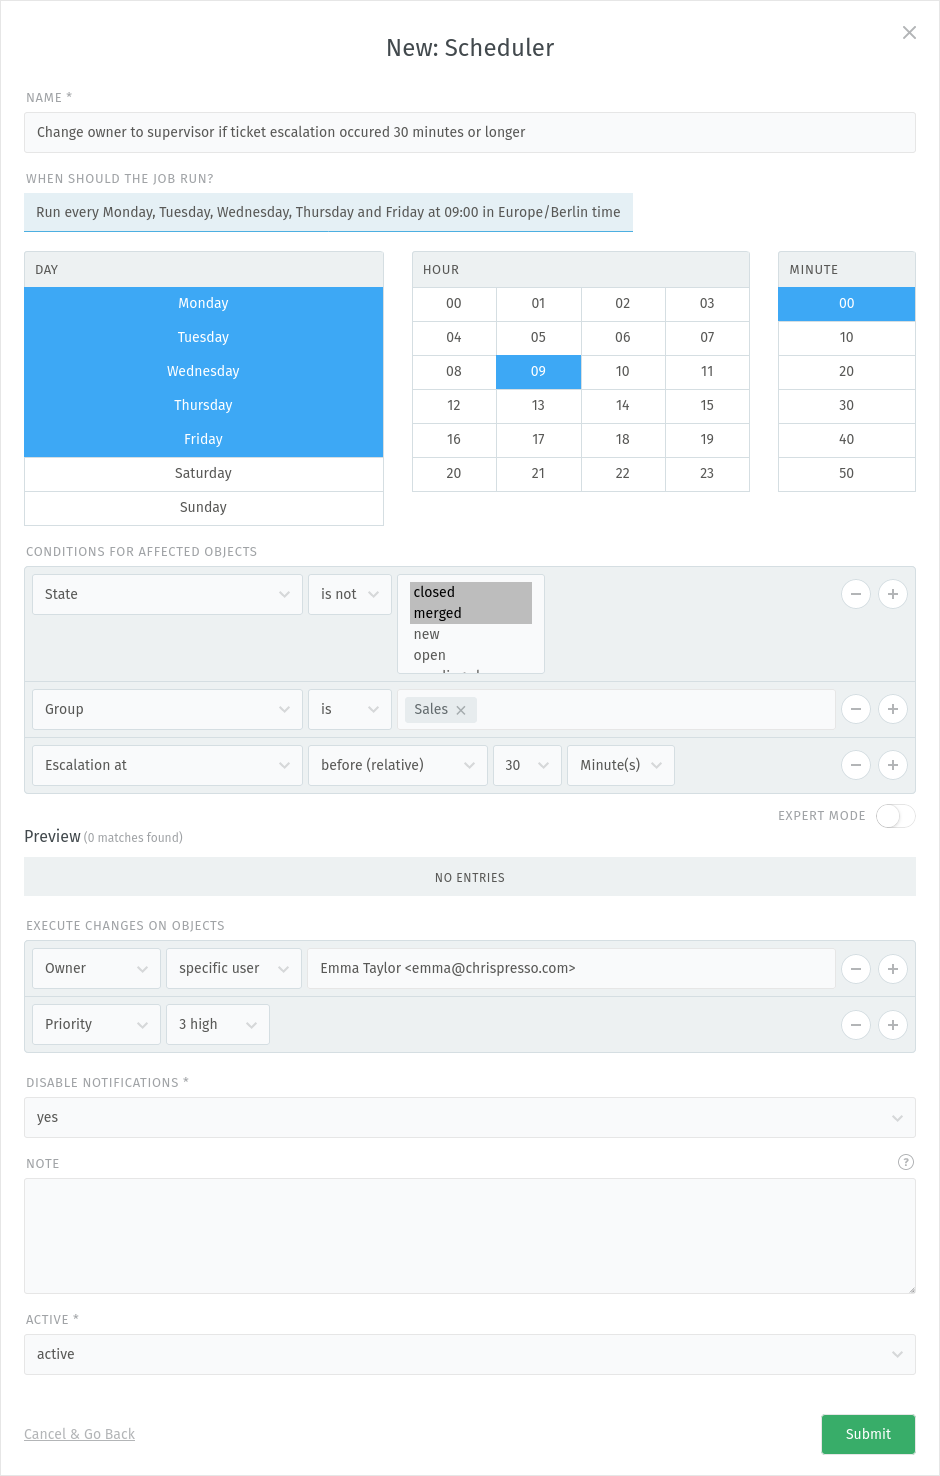
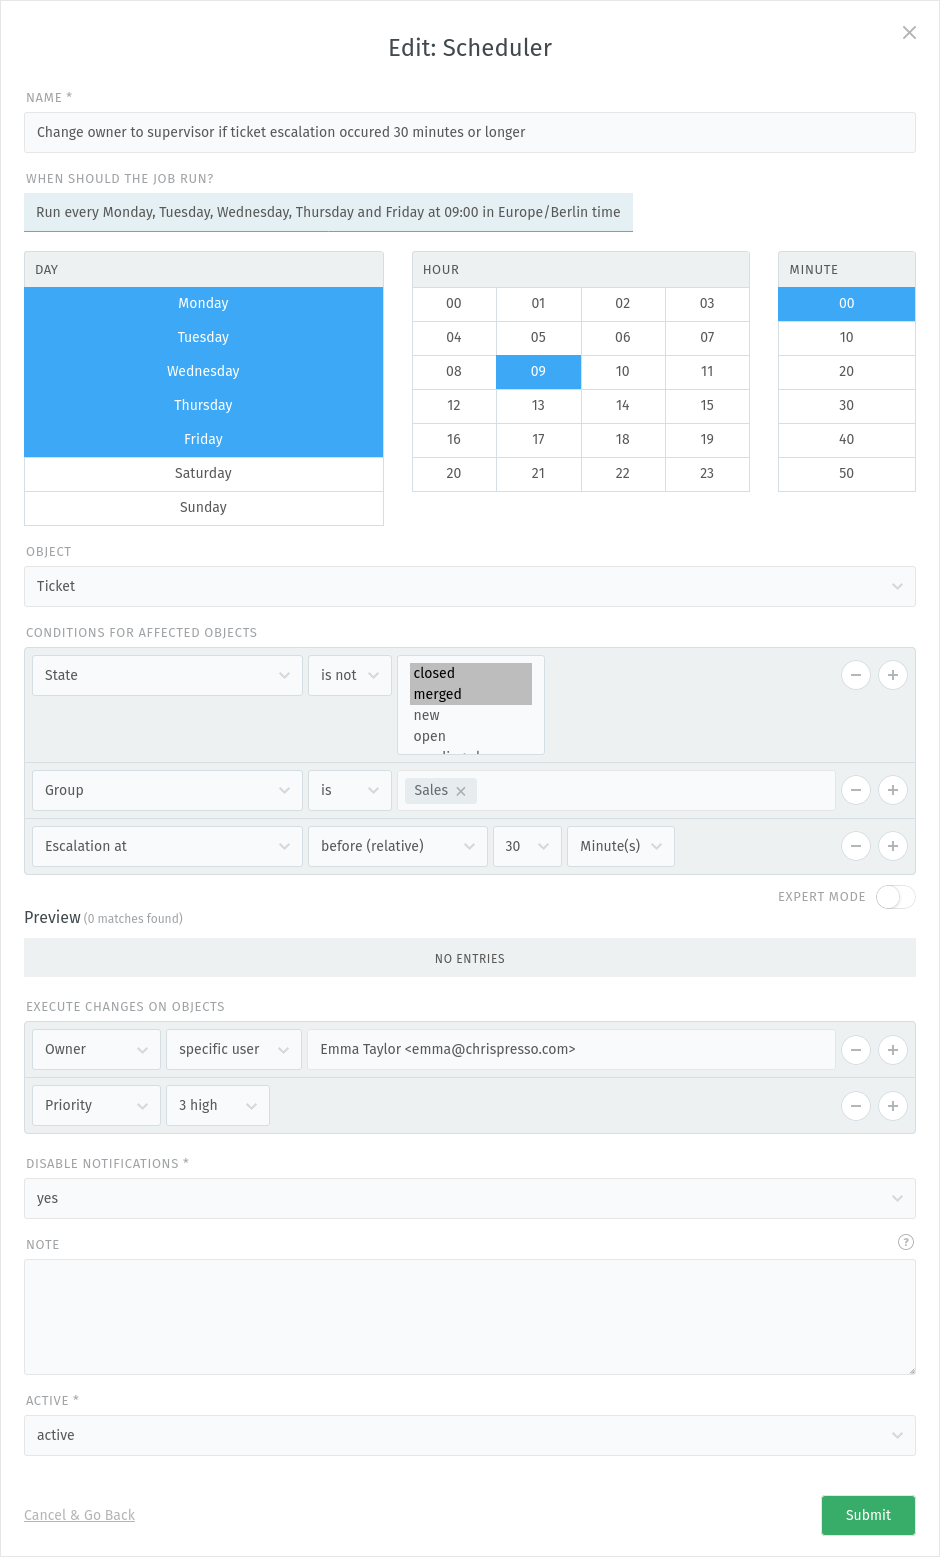
Edited manage > scheduler

diff --git a/manage/scheduler.rst b/manage/scheduler.rst
@@ -3,61 +3,83 @@ Scheduler
 
 The scheduler performs time-based automated actions. You can set up your own
 schedulers, configure at which points in time they should run, set up conditions
-to determine which tickets they should affect, and then configure the actions
-that you want to be executed on these tickets.
-
-.. note::
-
-   Schedulers with *Action: Delete* are currently the only way in the Zammad
-   front end to permanently delete tickets. This limitation is intentional as
-   Zammad is designed to be revision-proof. A possible use case for such a
-   scheduler is to delete spam tickets some time after creation (e.g. 30 days).
+to determine which objects they should affect, and then configure the actions
+that you want to be executed on these objects.
 
 .. warning::
 
    While it is possible to delegate scheduler permissions to normal agents with
-   the ``admin/scheduler`` permission, it is inadvisable to do so. Malicious
+   the ``admin.scheduler`` permission, it is inadvisable to do so. Malicious
    agents could use a scheduler to access tickets in restricted groups
-   (by moving them to a non-restricted group) or to delete arbitrary tickets.
+   (by moving them to a non-restricted group) or to arbitrarily delete tickets.
 
 .. hint::
 
-   | Schedulers can be used to send periodic reminder emails.
-     Use :doc:`/system/variables` to build highly-customized email templates.
-   |
-   | Schedulers only perform ``2000`` tickets per run. This is a security
-     function in case you accidentally miss configure the scheduler.
+   Schedulers can be used to send periodic reminder emails.
+   Use :doc:`/system/variables` to build highly-customized email templates.
+
+   Schedulers only perform ``2000`` objects per run. This is a security
+   function in case you accidentally misconfigured the scheduler.
 
 Add a new scheduler
 ===================
 
+Create a new scheduler job by clicking on the "New scheduler" button in the top
+right corner. Then Zammad presents a dialogue where you can create your own one.
+
+Example:
+
 .. figure:: /images/manage/scheduler/scheduler-change-owner-in-case-of-ticket-escalation.png
+   :alt: Screenshot showing dialog of creating a new scheduler job
+   :scale: 70 %
+   :align: center
 
 Name
    Choose a name for the scheduler.
 
 When should the job run?
-   Choose the points in time using :doc:`Zammad's timezone </settings/branding>`
-   when the scheduler should run.
+   Choose the points in time when the scheduler should run. It depends on the
+   configured :doc:`timezone in Zammad </settings/branding>`.
 
-   .. note::
-
-      The scheduler tasks are not saving any timezone information.
-      Thus: Scheduler tasks created prior Zammad 5.1 don't require any change.
+Object
+   Choose in which object context the scheduler should be executed. Possible
+   objects are: **Organization**, **Ticket** and **User**.
 
 Conditions for affected objects
-   Determine the ticket attributes (conditions) to limit on which tickets the
+   Determine the object attributes (conditions) to limit on which objects the
    actions configured in step 5 are to be performed.
 
    .. include:: /misc/object-conditions/conditioning-depth-hint.include.rst
 
 Preview
-   This list previews some tickets that your conditions are matching and shows 
-   a total of how many tickets are being matched. Use this to double-check the
+   This list previews some objects that your conditions are matching and shows
+   a total of how many objects are being matched. Use this to double-check the
    entered conditions.
 
+   .. note::
+
+      Please be aware that the preview and displayed number is just based on
+      the currently selected condition. It doesn't necessarily represent the
+      objects for execution at the defined time.
+
 Execute changes on objects
-   Determine the changes to be made to the ticket.
+   Determine the changes to be made to the object. The possible changes depend
+   on the selected object context.
+
+   .. warning::
+
+      🔥 Schedulers with *Action: Delete immediately* and *Action: Add a data
+      privacy deletion task* are dangerous and should be used with care! If
+      executed, the objects are deleted and no rollback is possible.
+
+   .. hint::
+
+      **Delete immediately** will delete the object at the runtime of the job
+      *without any hint* in the UI.
+
+      **Add a data privacy deletion task** will delete the object at
+      the runtime of the job as a data privacy task, which means it is visible
+      in Zammad's :doc:`data privacy panel </system/data-privacy>`.
 
 Disable notifications
    By default, actions triggered by schedulers won't send notifications.
@@ -66,7 +88,7 @@ Disable notifications
 Note
    You can use the note field to describe the purpose of the scheduler.
    This is only visible to other admins when they are editing the scheduler.
-   It is *not* a way to add notes to tickets.
+   It is *not* a way to add notes to objects.
 
 Active
    With this setting you can enable/disable the scheduler.
@@ -89,4 +111,4 @@ The scheduler shown in the screenshot would have the following effects:
    process escalated tickets.
 
    Emma will not receive notifications when the scheduler assigns her these
-   tickets, and no note will be added to them.
+   tickets.
